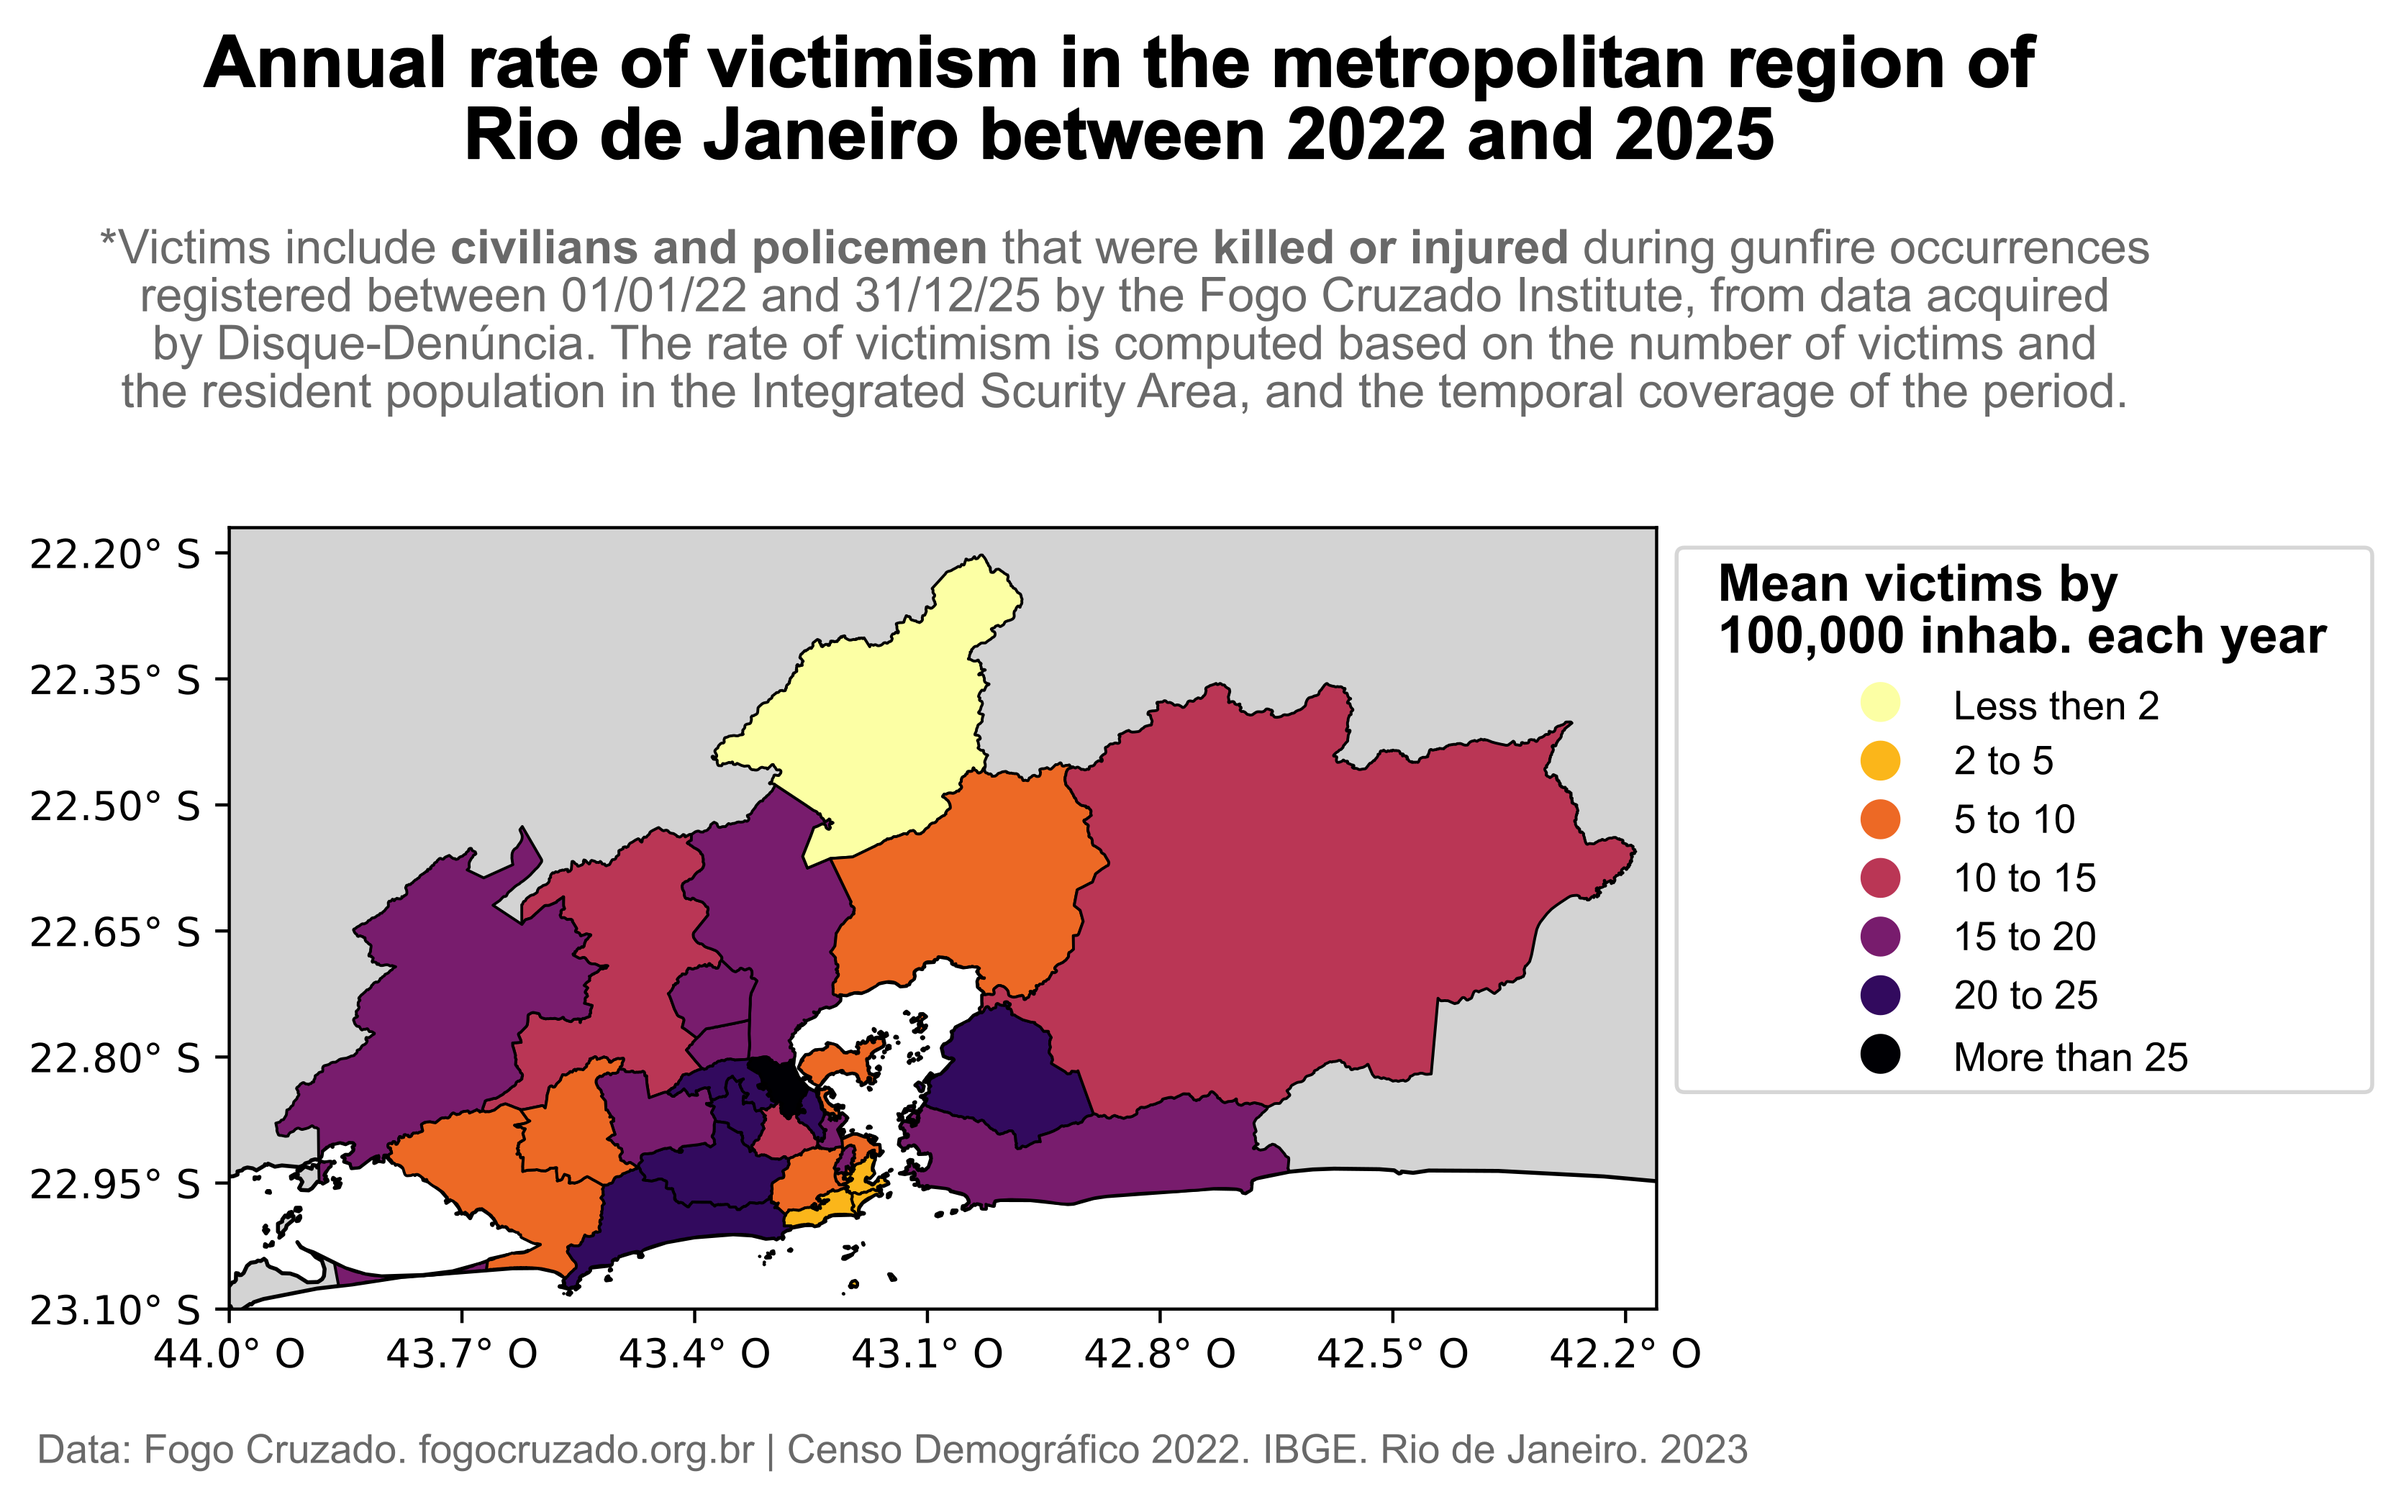
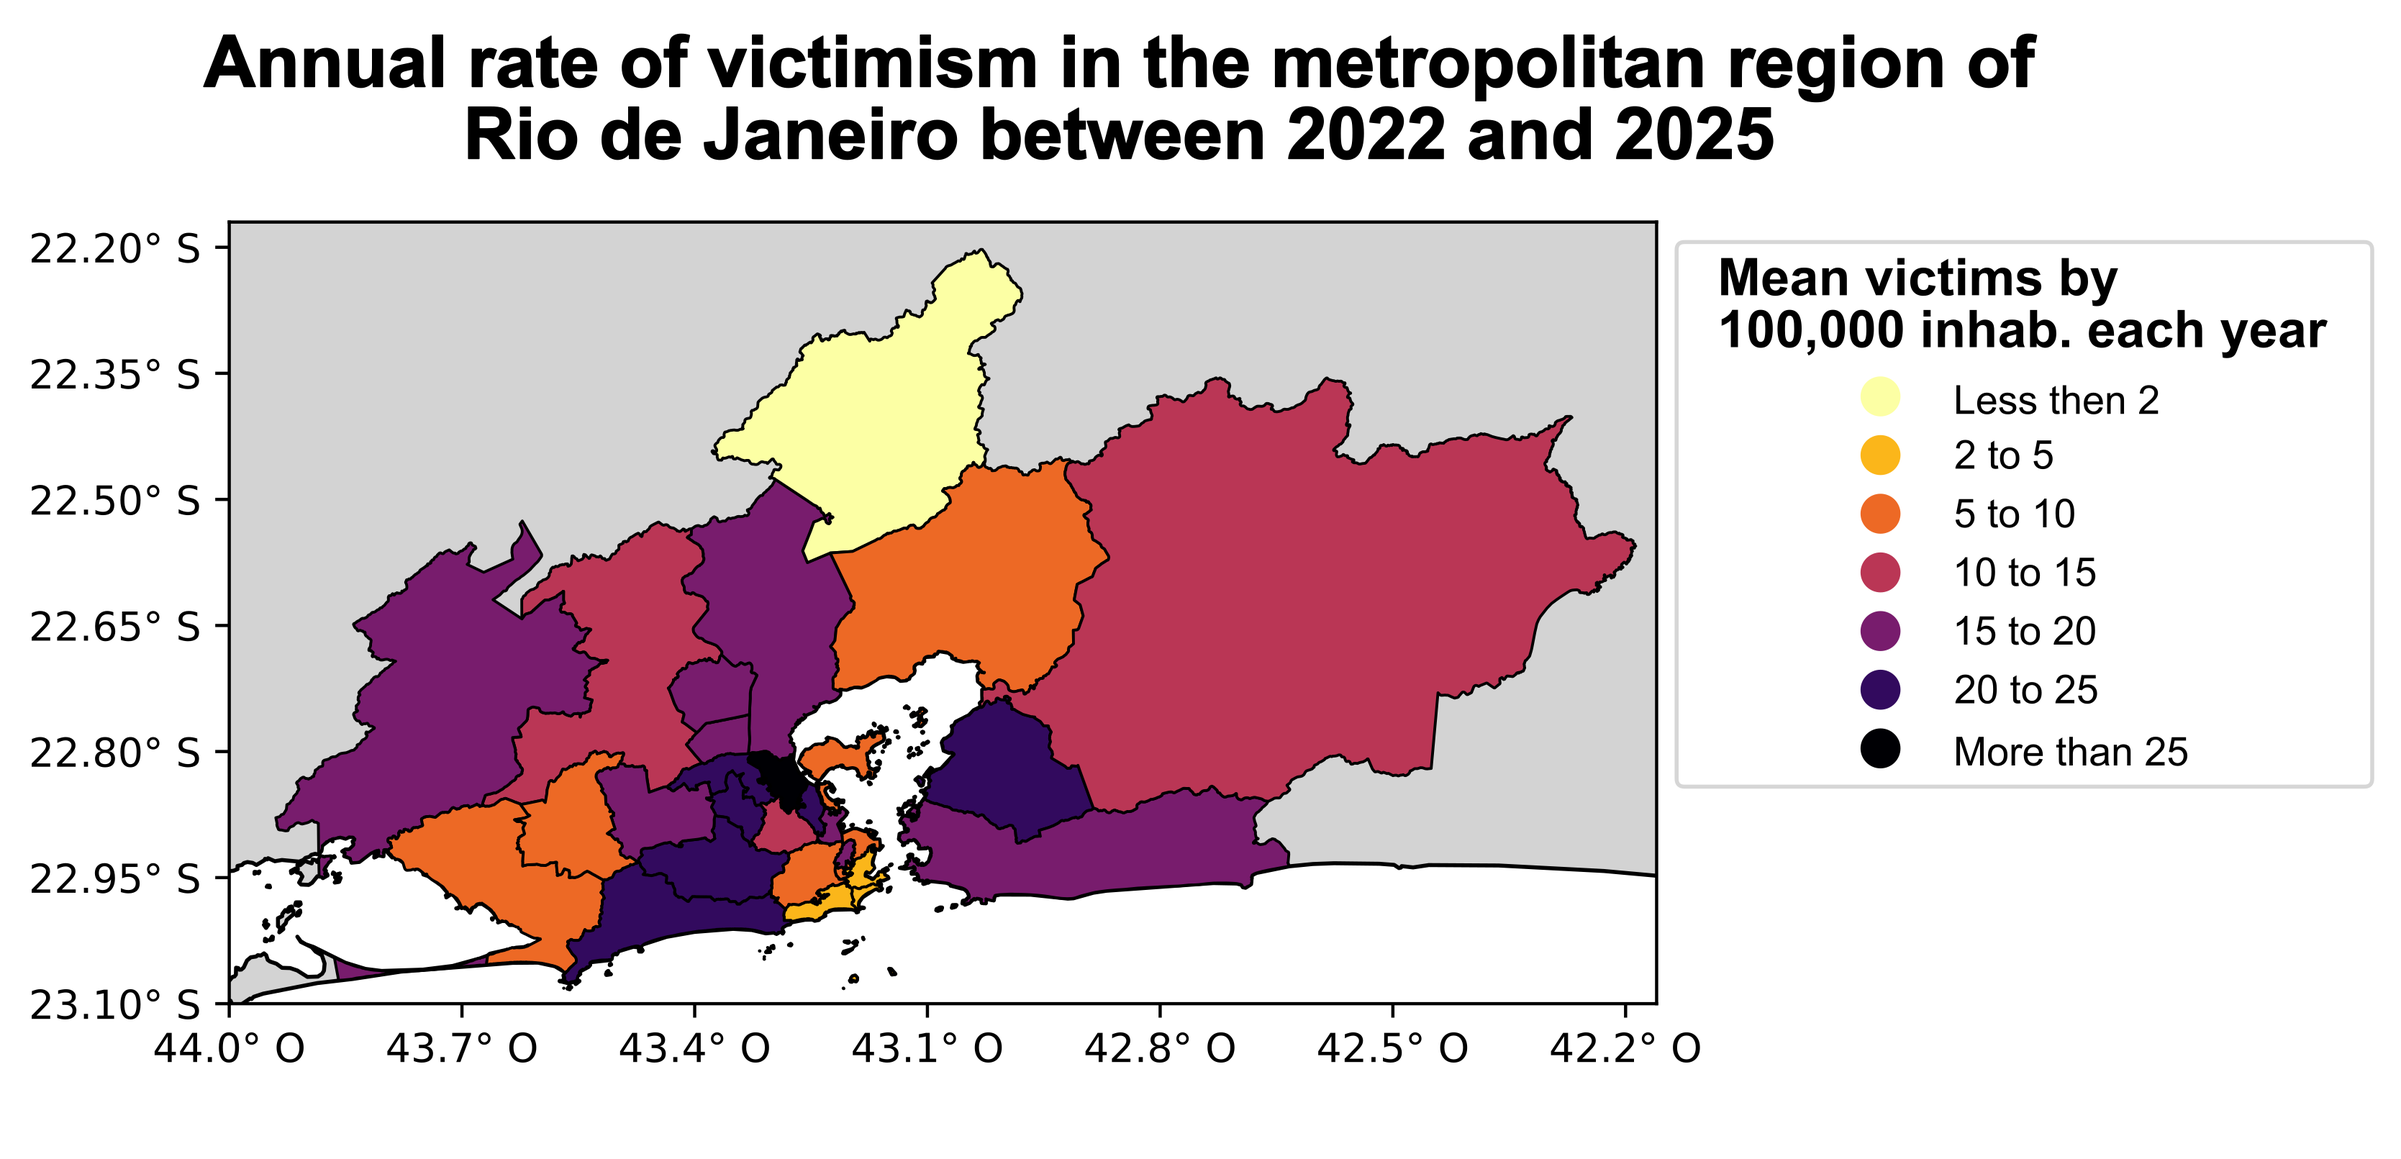
Update to Rio de Janeiro model

diff --git a/class-notes/en/megaoperacao-contencao.html b/class-notes/en/megaoperacao-contencao.html
@@ -148,7 +148,7 @@ description: "A preliminary dynamical model for testing hypothesis about the rel
     <div class="post-header">
       <h1>Crime, Police, and the Megaoperação Contenção in Rio de Janeiro</h1>
       <div class="post-meta">
-        <span>June 2026</span>
+        <span>August 2026</span>
         <span>Pedro H. P. Cintra &mdash; Stanford Doerr School of Sustainability</span>
       </div>
     </div>
@@ -186,7 +186,7 @@ description: "A preliminary dynamical model for testing hypothesis about the rel
 
     <figure>
       <img src="https://pedrohpcintra.github.io/assets/img/class_notes/victims_rj_metropolitan_AVG-2022-2025-EN-US.png" alt="Map of victim rates across Rio de Janeiro's metropolitan region, 2022-2025 average" />
-      <figcaption><strong>Figure 1.</strong> Annual average victim rate from shooting incidents per 100,000 inhabitants across Rio de Janeiro's metropolitan integrated security areas, 2022-2024. Victims include both civilians and police officers killed or wounded in shooting incidents recorded by Fogo Cruzado. The North Zone concentrations, including AISP 16 covering the Complexo do Alemão and Penha, stand out clearly. Source: Fogo Cruzado; IBGE Censo 2022.</figcaption>
+      <figcaption><strong>Figure 1.</strong> Annual average victim rate from shooting incidents per 100,000 inhabitants across Rio de Janeiro's metropolitan integrated security areas, 2022-2025. Victims include both <b>civilians and police officers killed or wounded</b> in shooting incidents recorded by Fogo Cruzado. The North Zone concentrations, including AISP 16 covering the Complexo do Alemão and Penha, stand out clearly. Source: Fogo Cruzado. fogocruzado.org.br | Censo Demográfico 2022. IBGE. Rio de Janeiro. 2023.</figcaption>
     </figure>
 
     <h3 id="favela-rate">Favelas vs. non-favelas within the same AISPs</h3>
